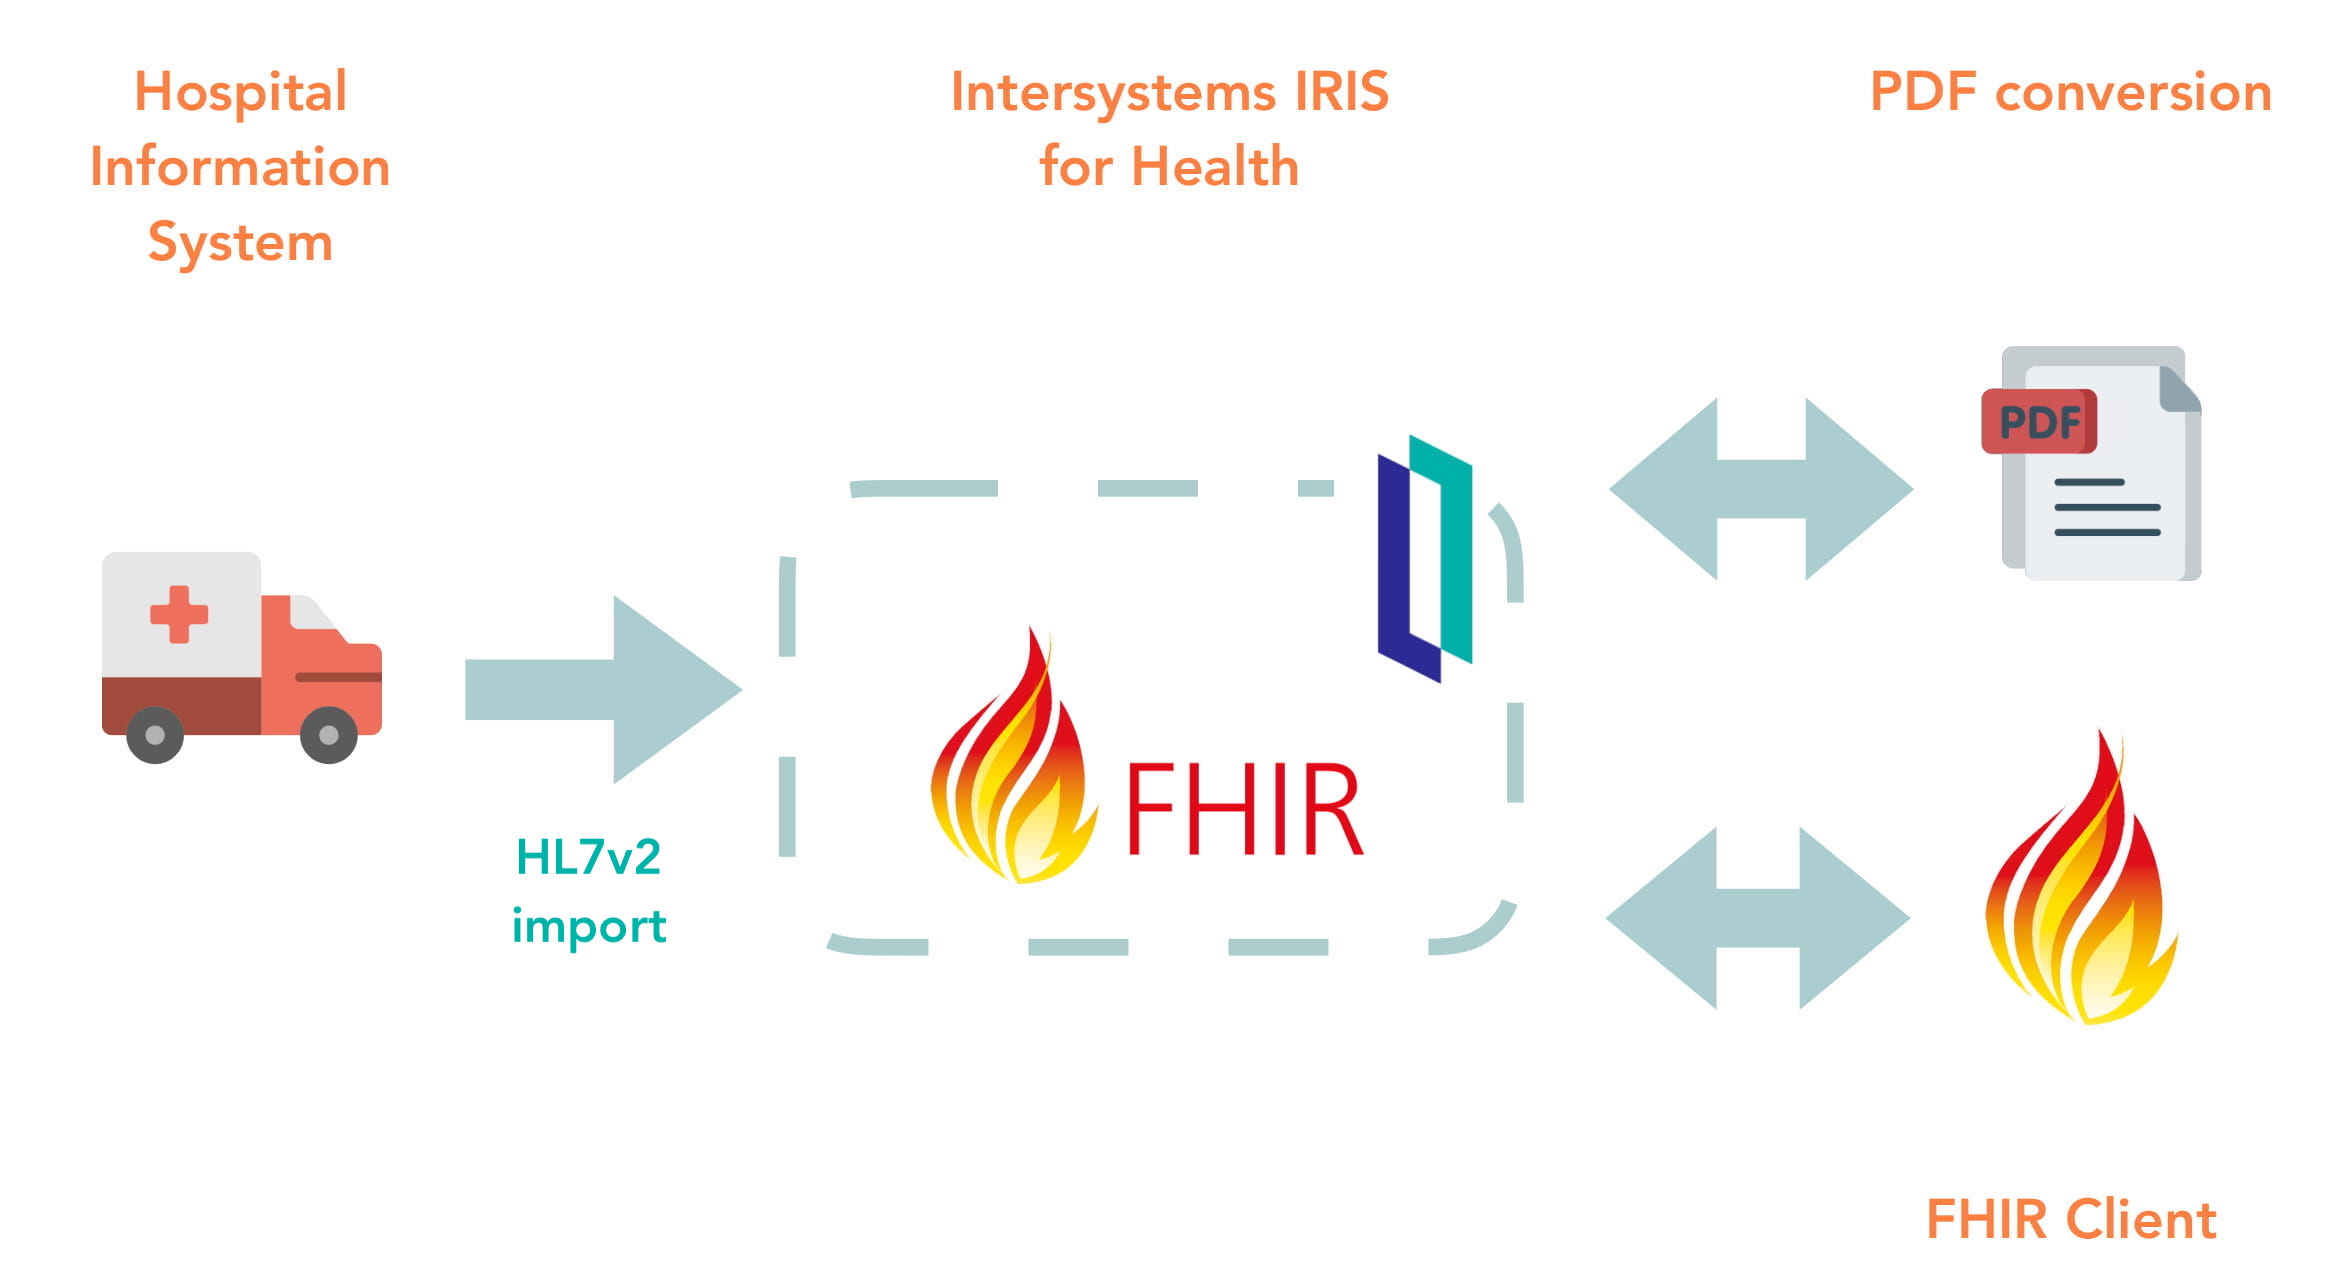
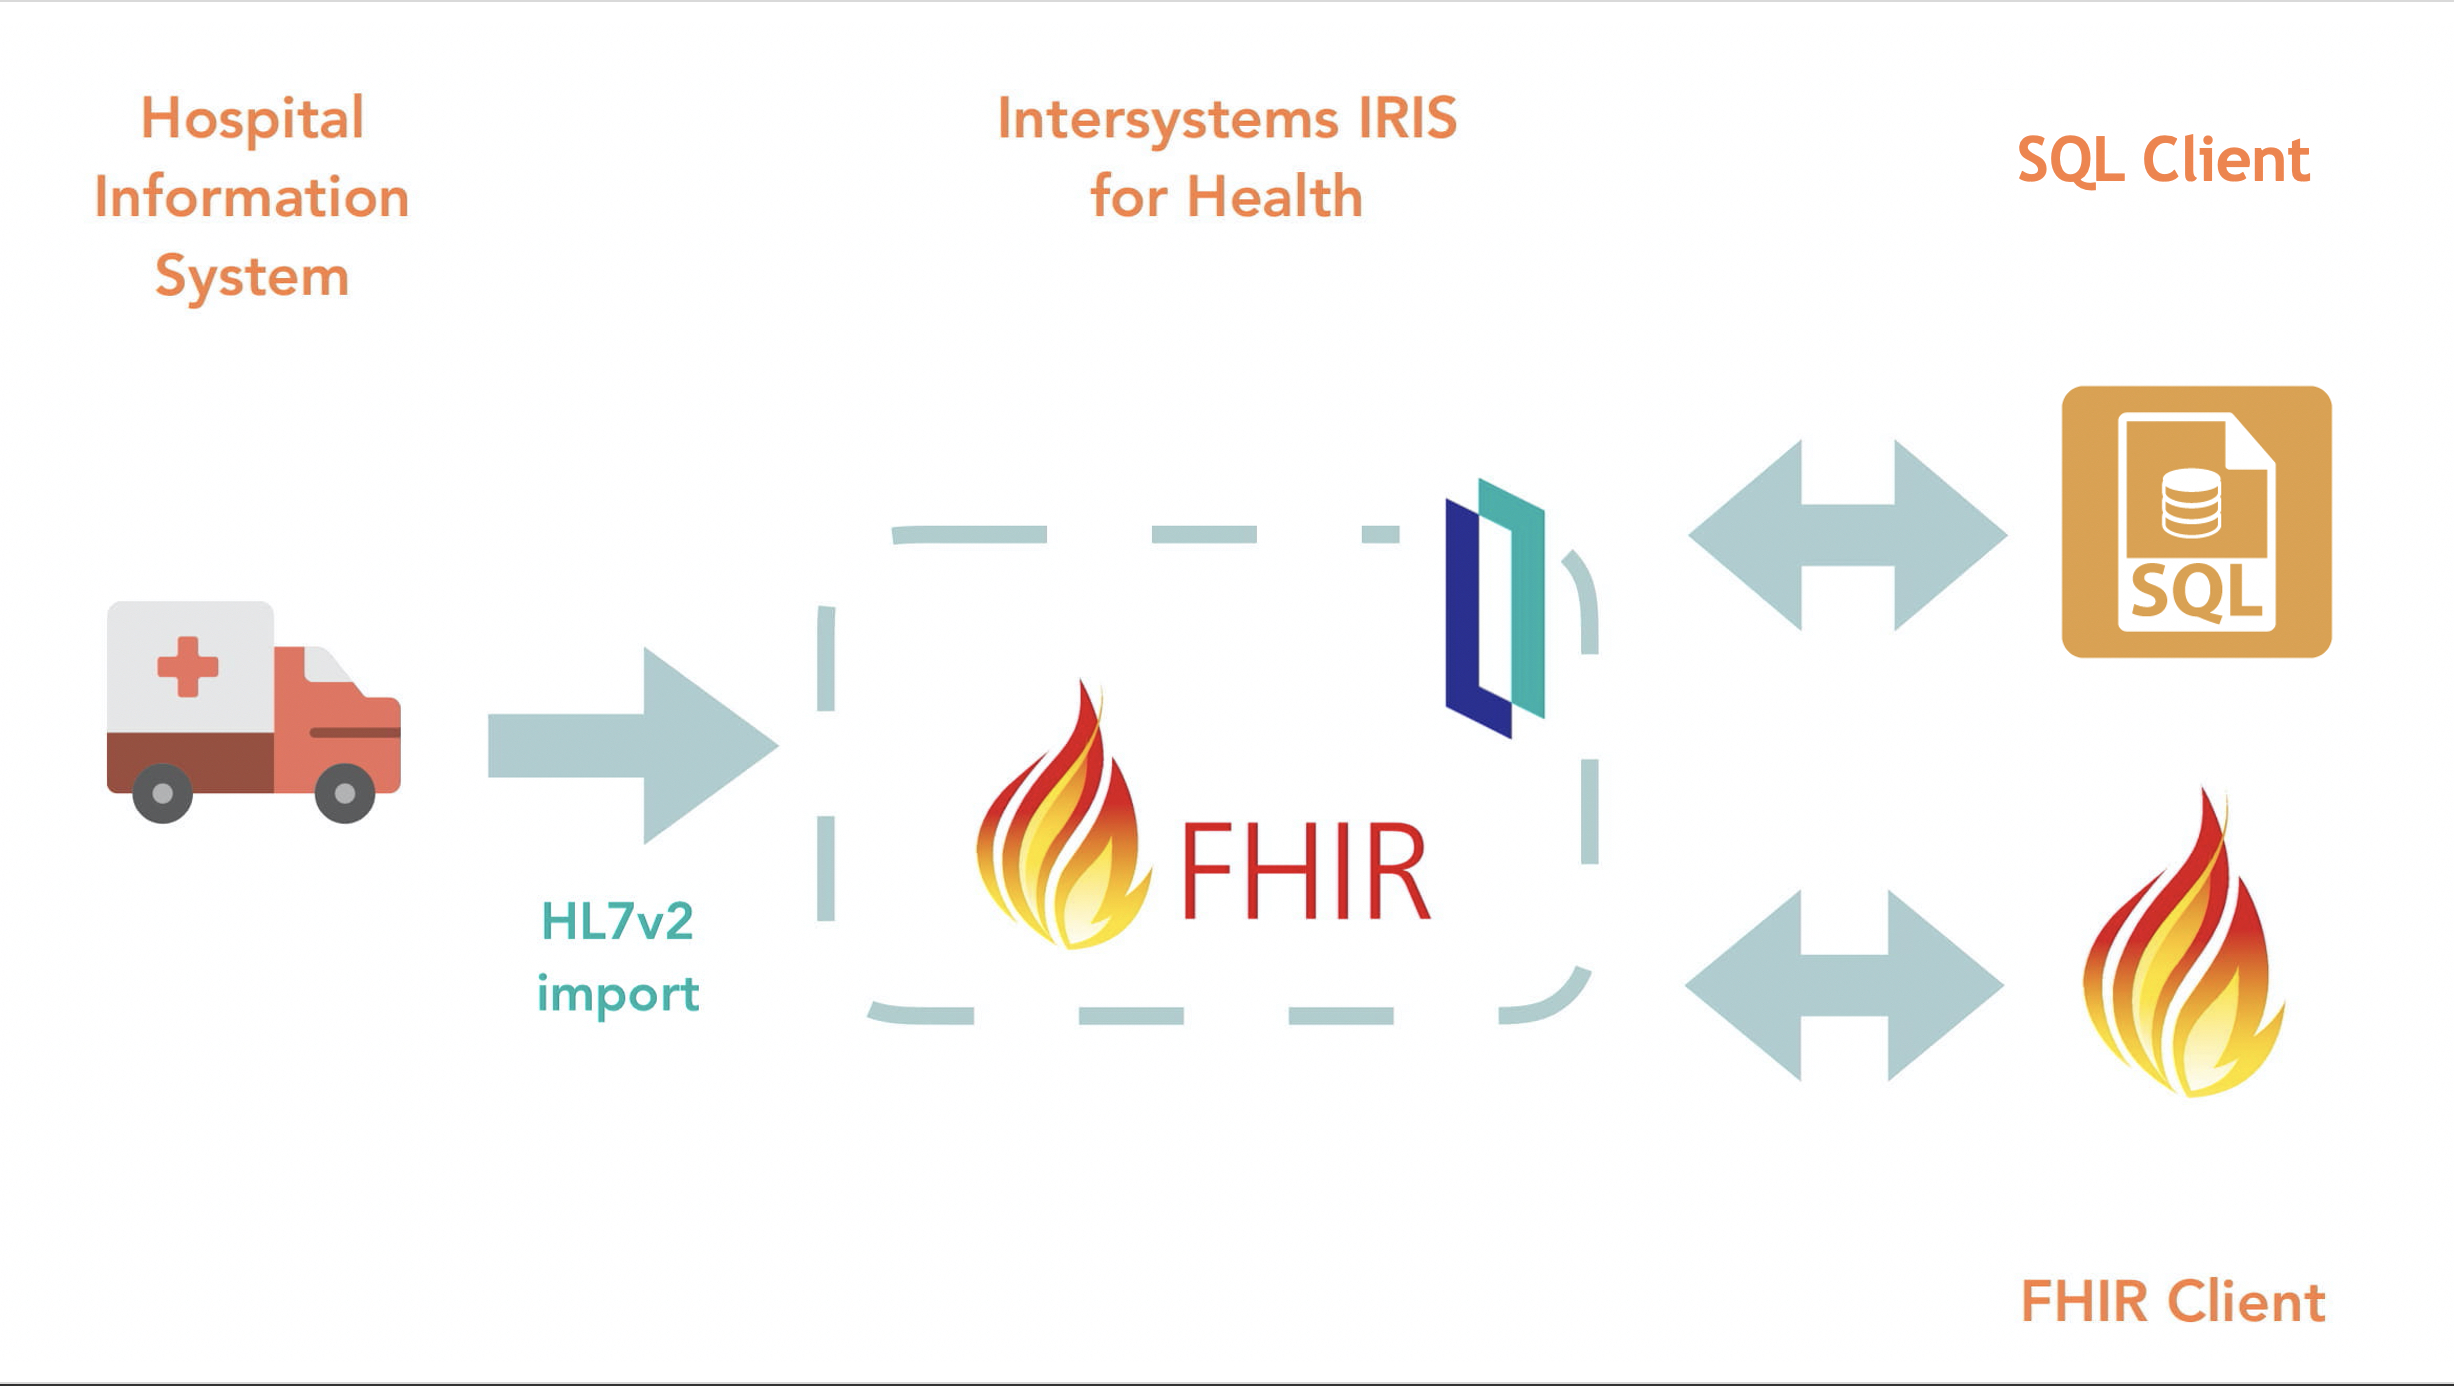
Update main page

diff --git a/fhirhl7ui/app/src/app/home/home.component.ts b/fhirhl7ui/app/src/app/home/home.component.ts
@@ -76,7 +76,7 @@ export class HomeComponent implements OnInit {
     }
 
     PDFConversion() {
-        this.window_open("http://localhost:52776/csp/healthshare/fhirhl7v2demo/fhir/stu3/Binary/1/$binary")
+        this.window_open("http://localhost:52776/csp/sys/exp/%25CSP.UI.Portal.SQL.Home.zen?$NAMESPACE=FHIRHL7V2DEMO&$NAMESPACE=FHIRHL7V2DEMO")
     }
 
     selectChangeHandler(event: any) {
